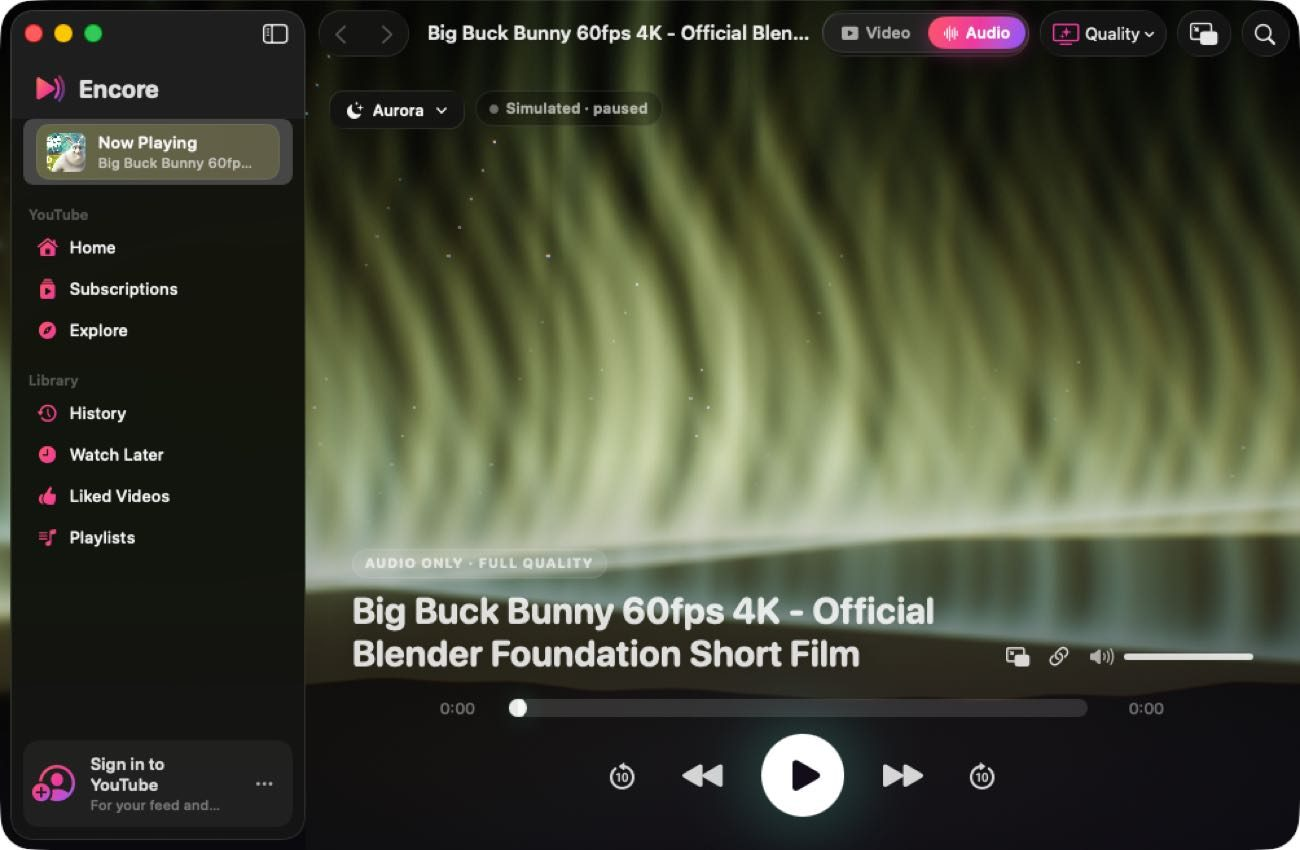
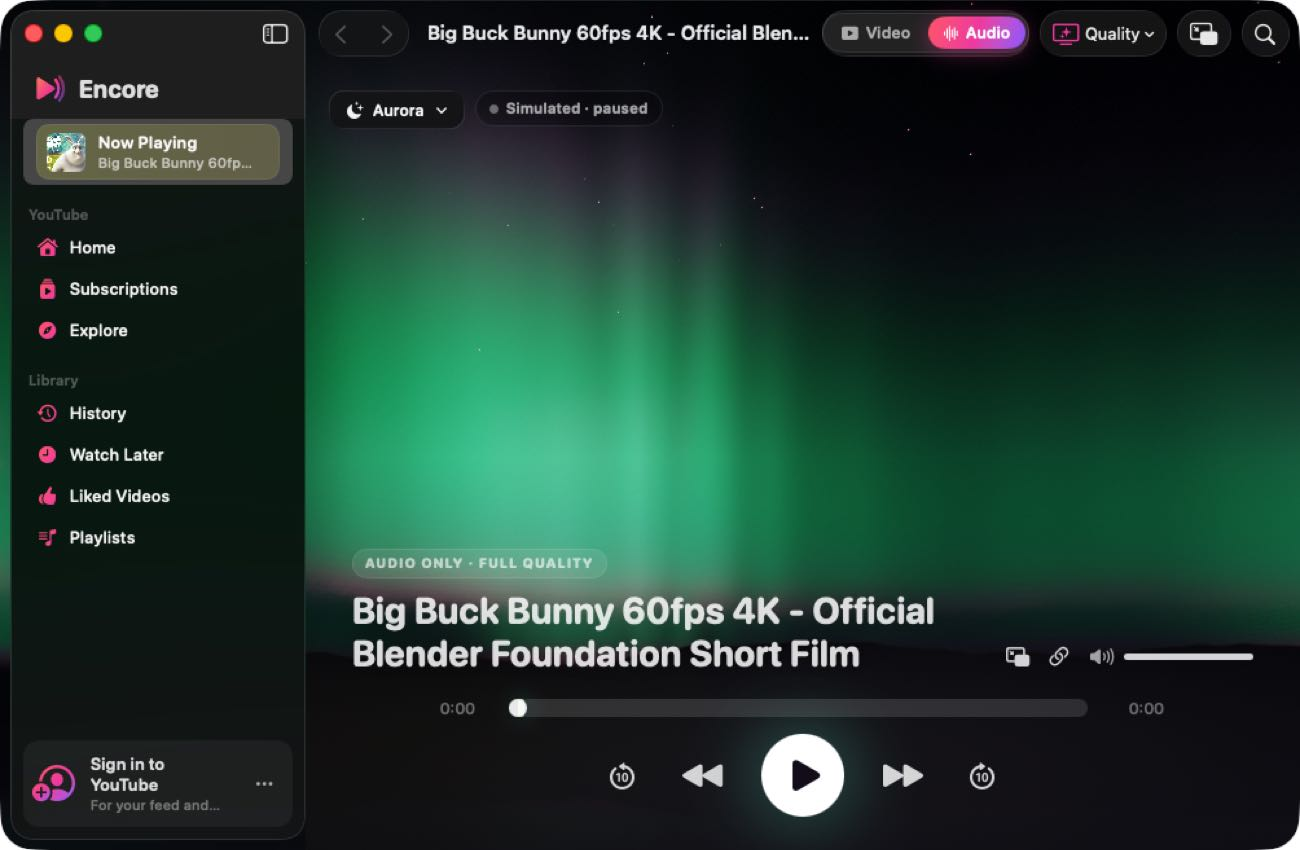
README: v1.1.0 screenshots (lyrics, Night Drive, Waves, Orb, Silk)
Claude-Session: https://claude.ai/code/session_01Dq9uaYLZ14tYd3nuL5CVKq

diff --git a/README.md b/README.md
@@ -7,16 +7,19 @@ Media keys always work, even with every window closed. Video and audio modes at 
 ---
 
 <p align="center">
-  <img src="docs/screenshots/audio-flow.jpg" width="49%" alt="Flow visualiser">
-  <img src="docs/screenshots/audio-swarm.jpg" width="49%" alt="Swarm visualiser">
-  <img src="docs/screenshots/audio-halo.jpg" width="49%" alt="Halo visualiser">
-  <img src="docs/screenshots/audio-ambient.jpg" width="49%" alt="Ambient visualiser">
-  <img src="docs/screenshots/audio-aurora.jpg" width="49%" alt="Aurora visualiser">
+  <img src="docs/screenshots/lyrics-singalong.jpg" width="49%" alt="Sing-Along lyrics">
+  <img src="docs/screenshots/lyrics-pop.jpg" width="49%" alt="Lyric Pop">
+  <img src="docs/screenshots/audio-drive.jpg" width="49%" alt="Night Drive visualiser">
+  <img src="docs/screenshots/audio-waves.jpg" width="49%" alt="Waves visualiser">
   <img src="docs/screenshots/audio-orb.jpg" width="49%" alt="Orb visualiser">
+  <img src="docs/screenshots/audio-cosmos.jpg" width="49%" alt="Cosmos visualiser">
+  <img src="docs/screenshots/audio-aurora.jpg" width="49%" alt="Aurora visualiser">
+  <img src="docs/screenshots/audio-silk.jpg" width="49%" alt="Silk visualiser">
+  <img src="docs/screenshots/audio-flow.jpg" width="49%" alt="Flow visualiser">
   <img src="docs/screenshots/video-mode.jpg" width="49%" alt="Video mode with the details drop-down">
 </p>
 <p align="center"><img src="docs/screenshots/menu-bar.jpg" width="300" alt="Menu bar player"></p>
-<p align="center"><sub>Real captures of Encore on macOS 26. They were taken by the CI smoke test on a small virtual display, with the visualisers in demo mode, because YouTube won't stream to datacenter machines. Colours come from the video's artwork.</sub></p>
+<p align="center"><sub>Real captures of Encore on macOS 26. They were taken by the CI smoke test on a small virtual display, with the visualisers and sample lyrics in demo mode, because YouTube won't stream to datacenter machines. Colours come from the video's artwork.</sub></p>
 
 ## Why Encore exists
 
